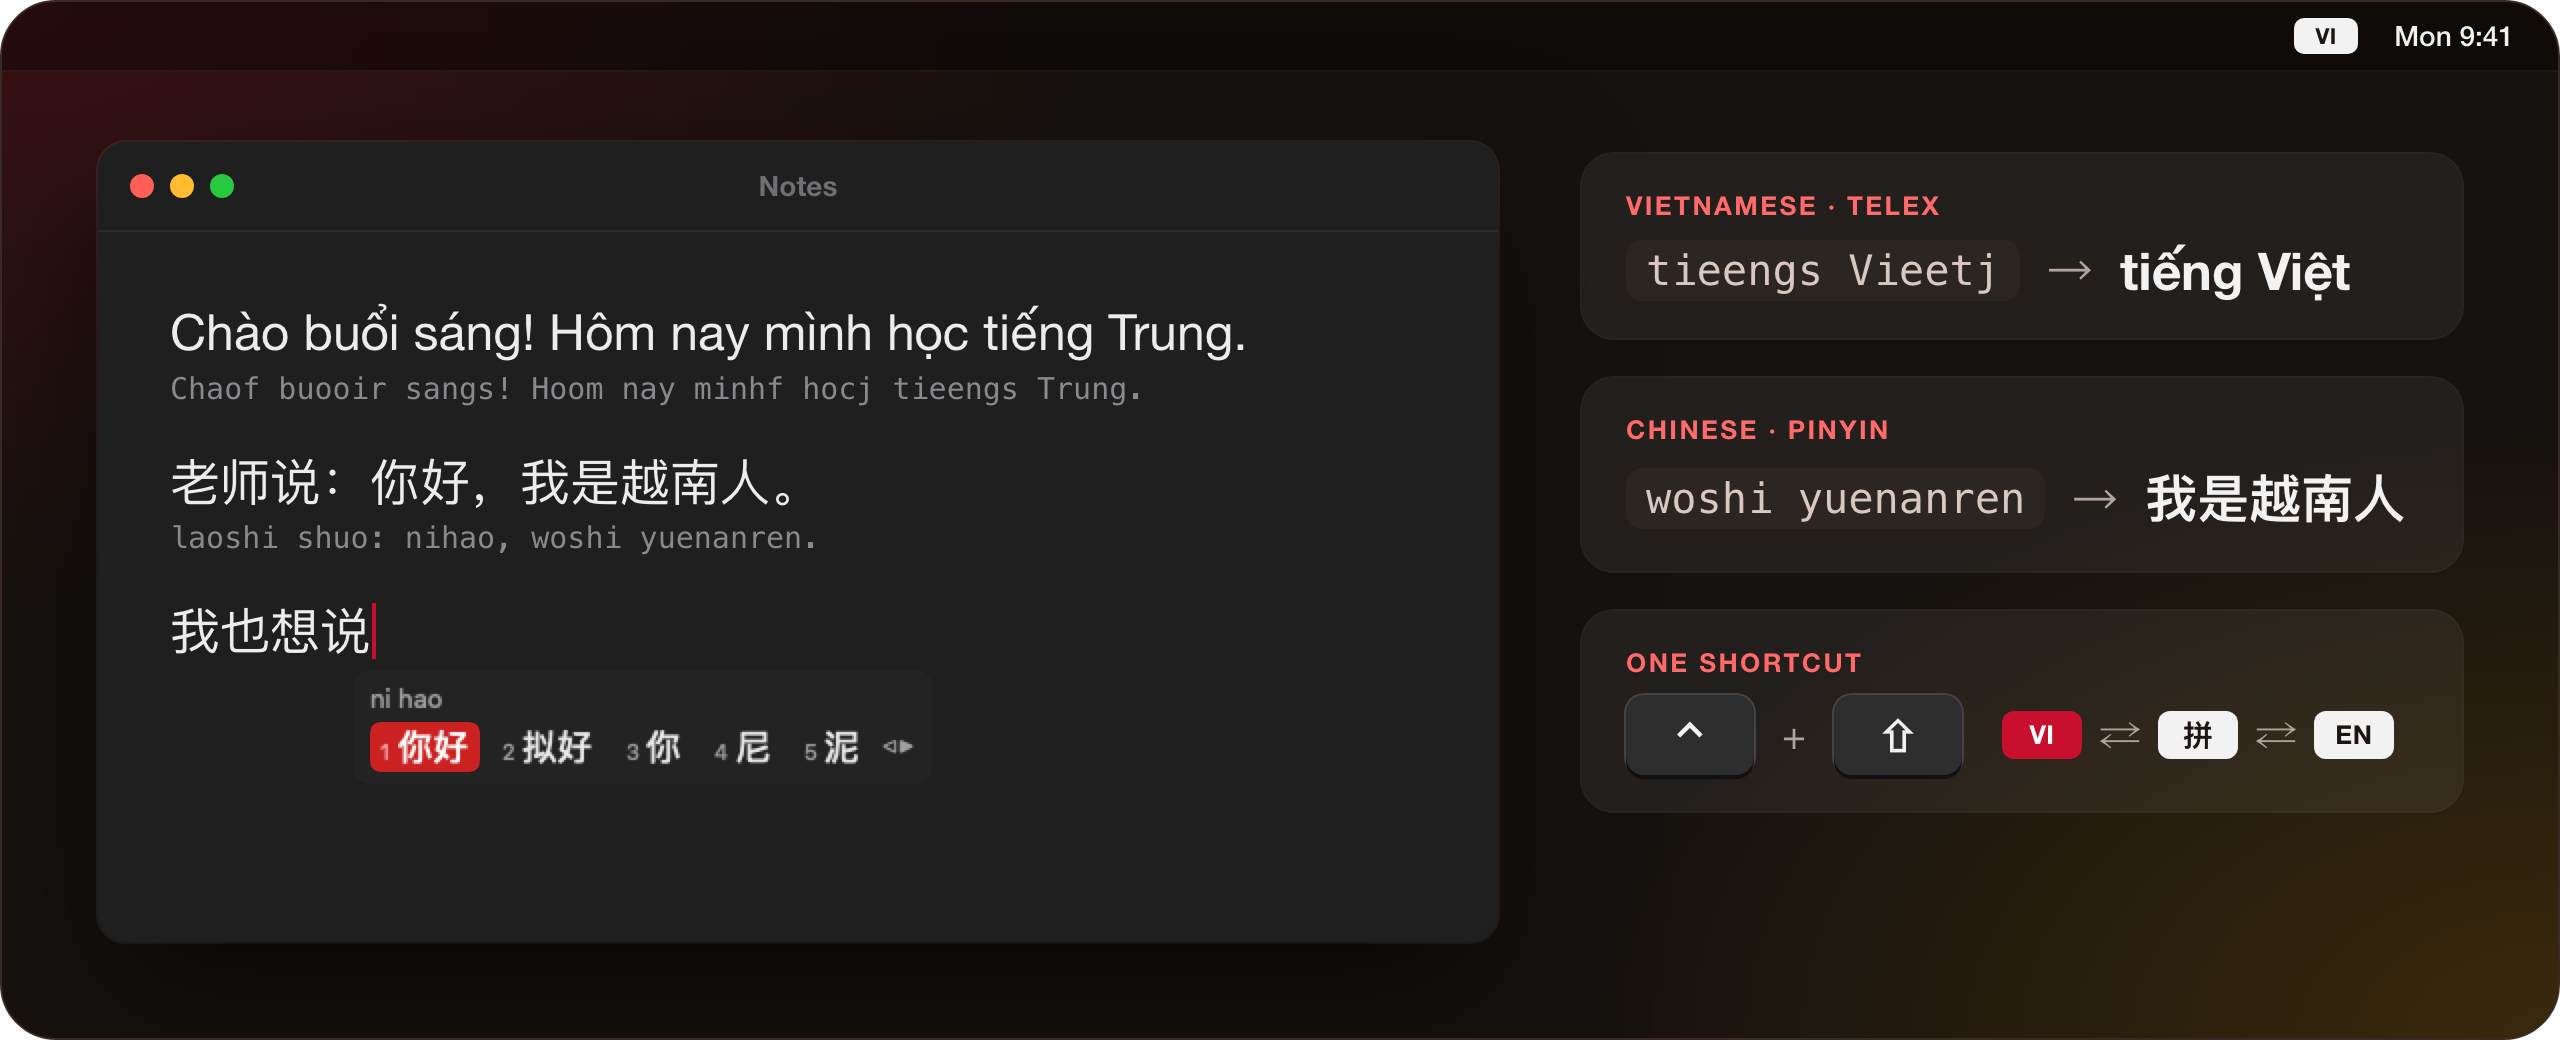
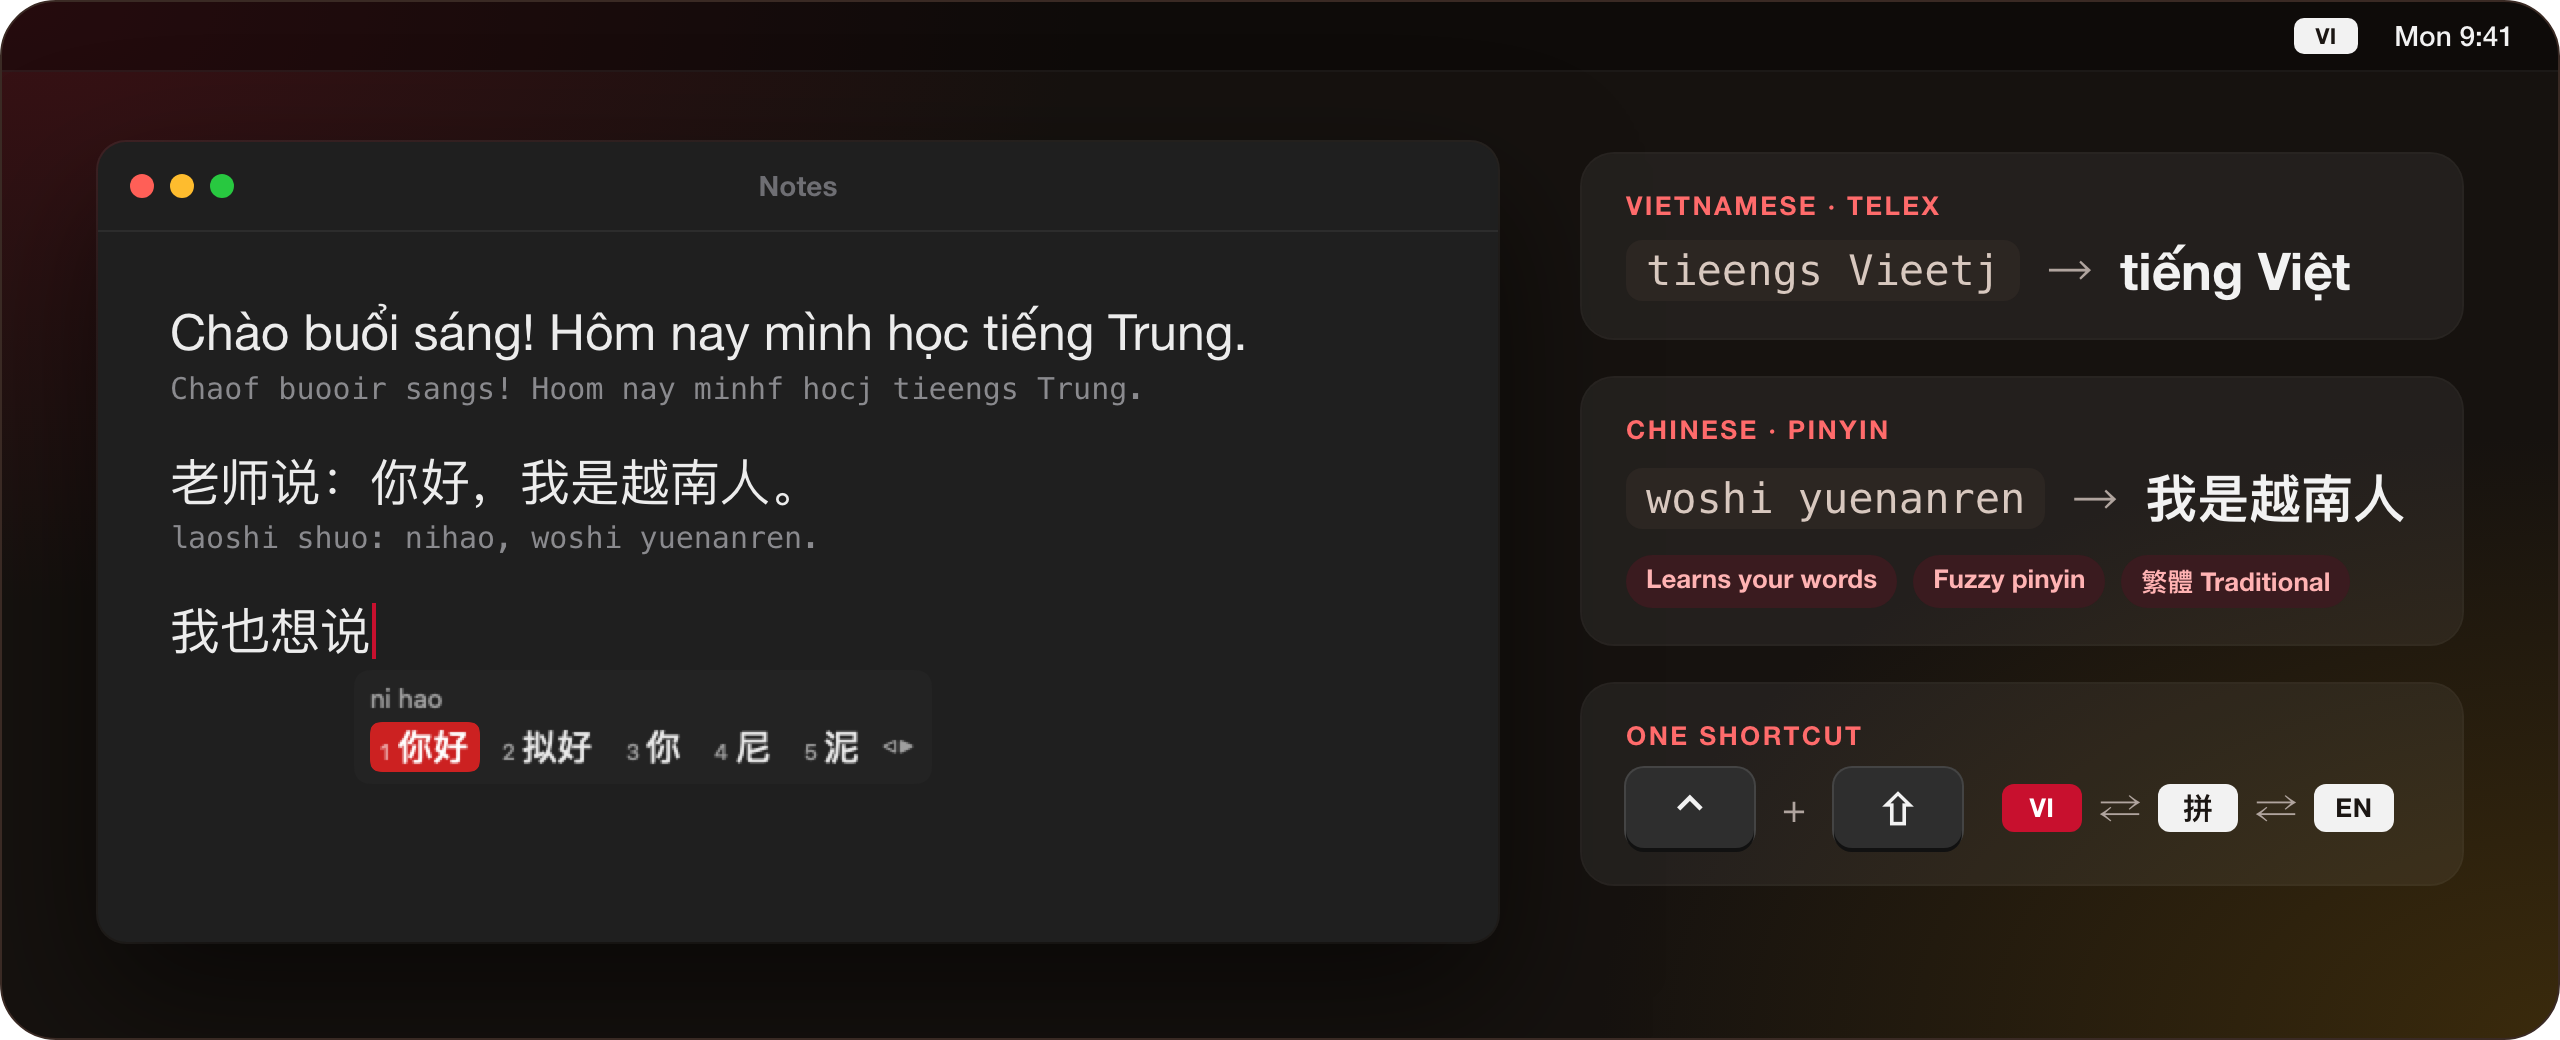
README: screenshots of all four Settings tabs in light and dark, the candidate window, and a hero that names learning, fuzzy pinyin and Traditional
Snapshot mode now captures the real on-screen windows (CGWindowListCreateImage of its own windows), which
renders the dark appearance correctly, and still writes 2x offscreen renders for the candidate window.

Changed region(s): [[0.625, 0.6769, 0.9375, 0.8308], [0.625, 0.5231, 0.9375, 0.5846], [0.625, 0.6154, 0.7188, 0.6462]]

diff --git a/Sources/ViPi/main.swift b/Sources/ViPi/main.swift
@@ -15,6 +15,12 @@ func writePNG(_ view: NSView, to path: String) {
     view.cacheDisplay(in: b, to: rep)
     try? rep.representation(using: .png, properties: [:])?.write(to: URL(fileURLWithPath: path))
 }
+/// Chụp một cửa sổ đang hiện trên màn hình đúng như người dùng thấy (cả thanh tiêu đề, bóng, giao diện tối);
+/// cửa sổ của chính mình nên không cần quyền Screen Recording. Màn hình phải đang bật (caffeinate -u).
+func captureWindow(_ w: NSWindow, to path: String) {
+    guard let img = CGWindowListCreateImage(.null, .optionIncludingWindow, CGWindowID(w.windowNumber), [.bestResolution]) else { return }
+    try? NSBitmapImageRep(cgImage: img).representation(using: .png, properties: [:])?.write(to: URL(fileURLWithPath: path))
+}
 if let i = args.firstIndex(of: "--verify-update"), i + 1 < args.count {
     // kiểm tra một ViPi.app có qua được bước kiểm chữ ký của bộ cập nhật không
     do { try Updater.verify(URL(fileURLWithPath: args[i + 1])); print("VERIFY OK") } catch { print("VERIFY FAIL: \(error.localizedDescription)") }
@@ -35,7 +41,7 @@ if let i = args.firstIndex(of: "--verify-update"), i + 1 < args.count {
     view.layoutSubtreeIfNeeded()
     writePNG(view, to: args[i + 1])
 } else if let i = args.firstIndex(of: "--snapshot-settings"), i + 1 < args.count {
-    // mở từng tab Settings thành cửa sổ thật rồi tự chụp: <prefix>-0.png …
+    // mở từng tab Settings thành cửa sổ thật trên màn hình rồi chụp: <prefix>-0.png … (-appearance dark để chụp bản tối)
     app.setActivationPolicy(.regular)
     app.appearance = Preferences().appearance.nsAppearance
     let windows = (0..<4).map { tab -> NSWindow in
@@ -58,9 +64,12 @@ if let i = args.firstIndex(of: "--verify-update"), i + 1 < args.count {
     candidates.setFrameOrigin(NSPoint(x: 700, y: 120))
     candidates.orderFrontRegardless()
     DispatchQueue.main.asyncAfter(deadline: .now() + 2) {
-        if let v = candidates.contentView { writePNG(v, to: "\(args[i + 1])-candidates.png") }
+        // bản 1x đúng như trên màn hình, và bản 2x vẽ lại từ view (sắc nét cho README)
+        captureWindow(candidates, to: "\(args[i + 1])-candidates.png")
+        if let v = candidates.contentView { writePNG(v, to: "\(args[i + 1])-candidates@2x.png") }
         for (tab, w) in windows.enumerated() {
-            if let v = w.contentView?.superview { writePNG(v, to: "\(args[i + 1])-\(tab).png") }
+            captureWindow(w, to: "\(args[i + 1])-\(tab).png")
+            if let v = w.contentView?.superview { writePNG(v, to: "\(args[i + 1])-\(tab)@2x.png") }
         }
         exit(0)
     }

diff --git a/assets/readme/hero.html b/assets/readme/hero.html
@@ -52,6 +52,9 @@
   .cycle .badge { height:24px; min-width:34px; font-size:13px; border-radius:6px; }
   .cycle .badge.zh { font-size:15px; }
   .cycle .badge.on { background:var(--red); color:#fff; }
+  .chips { margin-top:10px; display:flex; gap:8px; flex-wrap:wrap; }
+  .chip { font-size:13px; font-weight:600; padding:4px 10px; border-radius:999px; background:#fbe9e9; color:#8c1d2b; }
+  .dark .chip { background:#3a1b1f; color:#ffb3b3; }
 </style></head>
 <body>
 <div class="card">
@@ -73,7 +76,8 @@
     <div class="tile"><div class="k">Vietnamese · Telex</div>
       <div class="row"><span class="typed">tieengs Vieetj</span><span class="arrow">→</span><span class="out">tiếng Việt</span></div></div>
     <div class="tile"><div class="k">Chinese · Pinyin</div>
-      <div class="row"><span class="typed">woshi yuenanren</span><span class="arrow">→</span><span class="out">我是越南人</span></div></div>
+      <div class="row"><span class="typed">woshi yuenanren</span><span class="arrow">→</span><span class="out">我是越南人</span></div>
+      <div class="chips"><span class="chip">Learns your words</span><span class="chip">Fuzzy pinyin</span><span class="chip">繁體 Traditional</span></div></div>
     <div class="tile"><div class="k">One shortcut</div>
       <div class="row"><span class="key">⌃</span><span class="plus">+</span><span class="key">⇧</span>
         <span class="cycle"><span class="badge on">VI</span><span class="arrow">⇄</span><span class="badge zh">拼</span><span class="arrow">⇄</span><span class="badge">EN</span></span></div></div>

diff --git a/README.vi.md b/README.vi.md
@@ -71,6 +71,13 @@ Nếu bạn viết cả tiếng Việt lẫn tiếng Trung, máy Mac của bạn
 
 ### 🇨🇳 Pinyin có ô gợi ý thật sự
 
+<p align="center">
+  <picture>
+    <source media="(prefers-color-scheme: dark)" srcset="assets/readme/cand-dark.png">
+    <img src="assets/readme/cand-light.png" alt="Ô gợi ý khi gõ ni hao" width="330">
+  </picture>
+</p>
+
 | Bạn gõ | Bạn được | |
 |:--|:--|:--|
 | `nihao` | **你好** | pinyin đầy đủ, `v` = ü |
@@ -102,13 +109,27 @@ Khi một ô mật khẩu hay cửa sổ terminal bật Secure Input của macOS
 
 <table>
   <tr>
-    <td><img src="assets/readme/settings-general-vi.png" alt="Cài đặt chung"></td>
-    <td><img src="assets/readme/settings-vietnamese-vi.png" alt="Cài đặt tiếng Việt"></td>
-    <td><img src="assets/readme/settings-shortcuts-vi.png" alt="Gõ tắt"></td>
+    <td><picture>
+    <source media="(prefers-color-scheme: dark)" srcset="assets/readme/settings-general-vi-dark.png">
+    <img src="assets/readme/settings-general-vi-light.png" alt="Cài đặt chung">
+  </picture></td>
+    <td><picture>
+    <source media="(prefers-color-scheme: dark)" srcset="assets/readme/settings-vietnamese-vi-dark.png">
+    <img src="assets/readme/settings-vietnamese-vi-light.png" alt="Cài đặt tiếng Việt">
+  </picture></td>
+    <td><picture>
+    <source media="(prefers-color-scheme: dark)" srcset="assets/readme/settings-chinese-vi-dark.png">
+    <img src="assets/readme/settings-chinese-vi-light.png" alt="Cài đặt tiếng Trung">
+  </picture></td>
+    <td><picture>
+    <source media="(prefers-color-scheme: dark)" srcset="assets/readme/settings-shortcuts-vi-dark.png">
+    <img src="assets/readme/settings-shortcuts-vi-light.png" alt="Gõ tắt">
+  </picture></td>
   </tr>
   <tr>
     <td align="center"><sub>Ngôn ngữ, giao diện, phím tắt</sub></td>
     <td align="center"><sub>Chính tả và kiểu đặt dấu</sub></td>
+    <td align="center"><sub>Phồn thể, học từ, âm mờ</sub></td>
     <td align="center"><sub>Gõ tắt</sub></td>
   </tr>
 </table>

diff --git a/README.md b/README.md
@@ -71,6 +71,13 @@ If you write in Vietnamese and Chinese, your Mac probably looks like this:
 
 ### 🇨🇳 Chinese Pinyin with a real candidate window
 
+<p align="center">
+  <picture>
+    <source media="(prefers-color-scheme: dark)" srcset="assets/readme/cand-dark.png">
+    <img src="assets/readme/cand-light.png" alt="The candidate window for ni hao" width="330">
+  </picture>
+</p>
+
 | You type | You get | |
 |:--|:--|:--|
 | `nihao` | **你好** | full pinyin, `v` = ü |
@@ -102,13 +109,27 @@ When a password field or a terminal turns on macOS Secure Input, every input too
 
 <table>
   <tr>
-    <td><img src="assets/readme/settings-general-en.png" alt="General settings"></td>
-    <td><img src="assets/readme/settings-vietnamese-en.png" alt="Vietnamese settings"></td>
-    <td><img src="assets/readme/settings-shortcuts-en.png" alt="Text shortcuts"></td>
+    <td><picture>
+    <source media="(prefers-color-scheme: dark)" srcset="assets/readme/settings-general-en-dark.png">
+    <img src="assets/readme/settings-general-en-light.png" alt="General settings">
+  </picture></td>
+    <td><picture>
+    <source media="(prefers-color-scheme: dark)" srcset="assets/readme/settings-vietnamese-en-dark.png">
+    <img src="assets/readme/settings-vietnamese-en-light.png" alt="Vietnamese settings">
+  </picture></td>
+    <td><picture>
+    <source media="(prefers-color-scheme: dark)" srcset="assets/readme/settings-chinese-en-dark.png">
+    <img src="assets/readme/settings-chinese-en-light.png" alt="Chinese settings">
+  </picture></td>
+    <td><picture>
+    <source media="(prefers-color-scheme: dark)" srcset="assets/readme/settings-shortcuts-en-dark.png">
+    <img src="assets/readme/settings-shortcuts-en-light.png" alt="Text shortcuts">
+  </picture></td>
   </tr>
   <tr>
     <td align="center"><sub>Language, appearance, shortcut</sub></td>
     <td align="center"><sub>Spelling and tone placement</sub></td>
+    <td align="center"><sub>Traditional, learning, fuzzy pinyin</sub></td>
     <td align="center"><sub>Text shortcuts</sub></td>
   </tr>
 </table>

diff --git a/README.zh-CN.md b/README.zh-CN.md
@@ -71,6 +71,13 @@
 
 ### 🇨🇳 拼音，配真正的候选框
 
+<p align="center">
+  <picture>
+    <source media="(prefers-color-scheme: dark)" srcset="assets/readme/cand-dark.png">
+    <img src="assets/readme/cand-light.png" alt="输入 ni hao 时的候选框" width="330">
+  </picture>
+</p>
+
 | 你输入 | 你得到 | |
 |:--|:--|:--|
 | `nihao` | **你好** | 全拼，`v` = ü |
@@ -102,13 +109,27 @@
 
 <table>
   <tr>
-    <td><img src="assets/readme/settings-general-zh.png" alt="通用设置"></td>
-    <td><img src="assets/readme/settings-vietnamese-zh.png" alt="越南语设置"></td>
-    <td><img src="assets/readme/settings-shortcuts-zh.png" alt="快捷短语"></td>
+    <td><picture>
+    <source media="(prefers-color-scheme: dark)" srcset="assets/readme/settings-general-zh-dark.png">
+    <img src="assets/readme/settings-general-zh-light.png" alt="通用设置">
+  </picture></td>
+    <td><picture>
+    <source media="(prefers-color-scheme: dark)" srcset="assets/readme/settings-vietnamese-zh-dark.png">
+    <img src="assets/readme/settings-vietnamese-zh-light.png" alt="越南语设置">
+  </picture></td>
+    <td><picture>
+    <source media="(prefers-color-scheme: dark)" srcset="assets/readme/settings-chinese-zh-dark.png">
+    <img src="assets/readme/settings-chinese-zh-light.png" alt="中文设置">
+  </picture></td>
+    <td><picture>
+    <source media="(prefers-color-scheme: dark)" srcset="assets/readme/settings-shortcuts-zh-dark.png">
+    <img src="assets/readme/settings-shortcuts-zh-light.png" alt="快捷短语">
+  </picture></td>
   </tr>
   <tr>
     <td align="center"><sub>语言、外观、快捷键</sub></td>
     <td align="center"><sub>拼写检查与声调位置</sub></td>
+    <td align="center"><sub>繁体、记忆选词、模糊音</sub></td>
     <td align="center"><sub>快捷短语</sub></td>
   </tr>
 </table>
